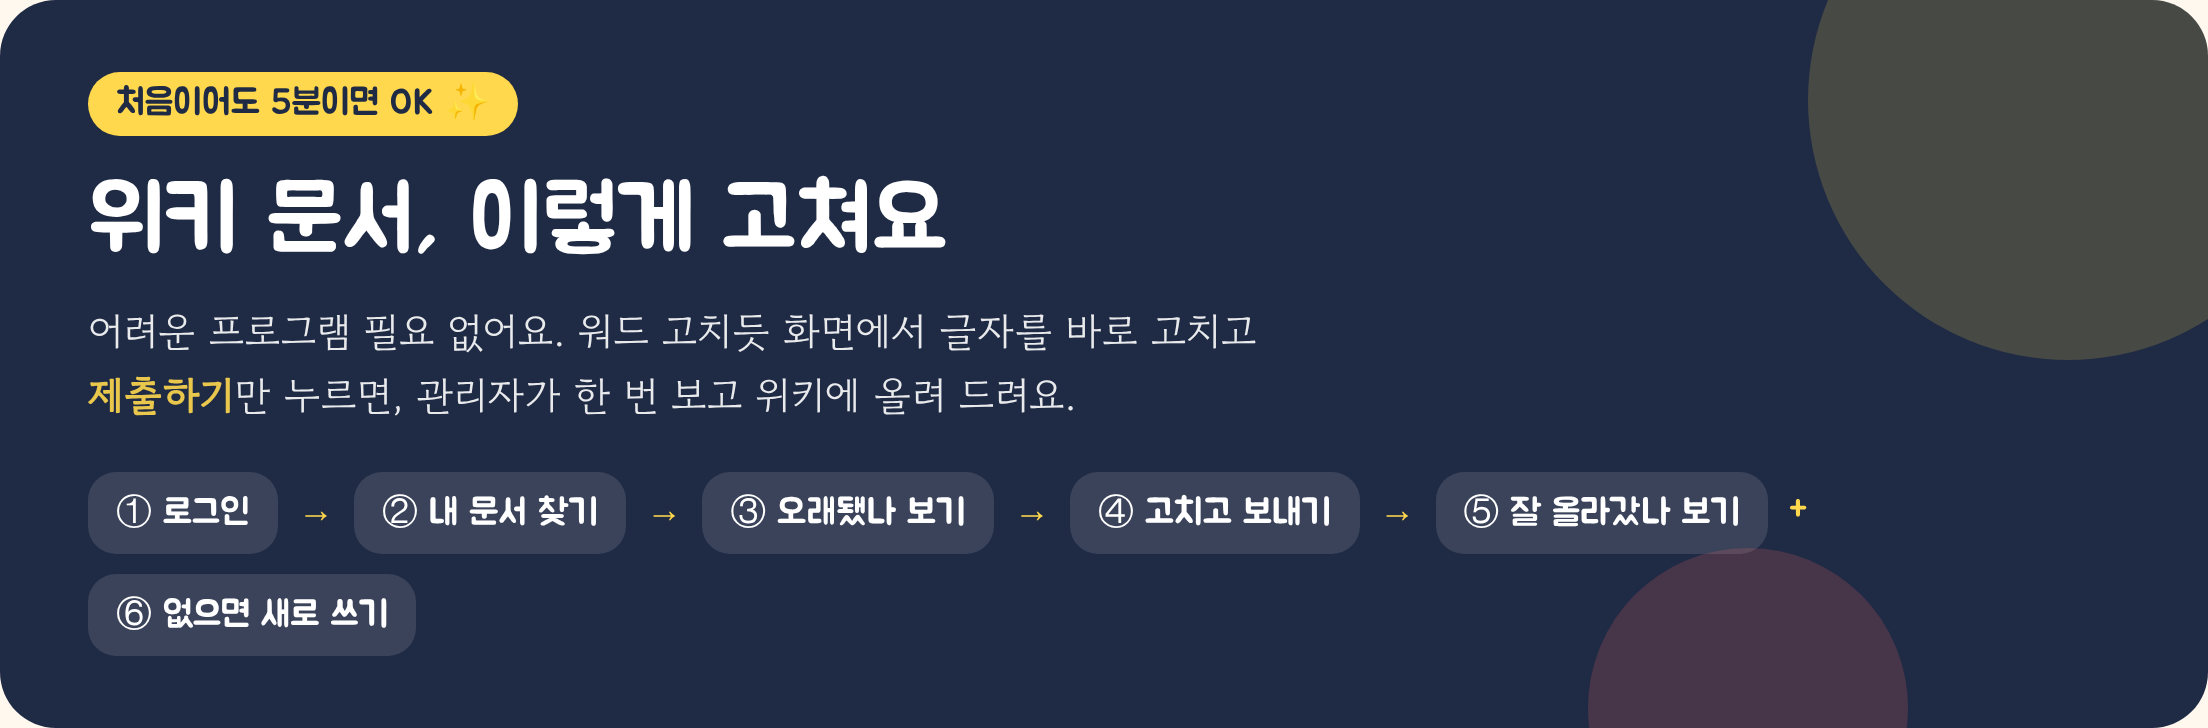
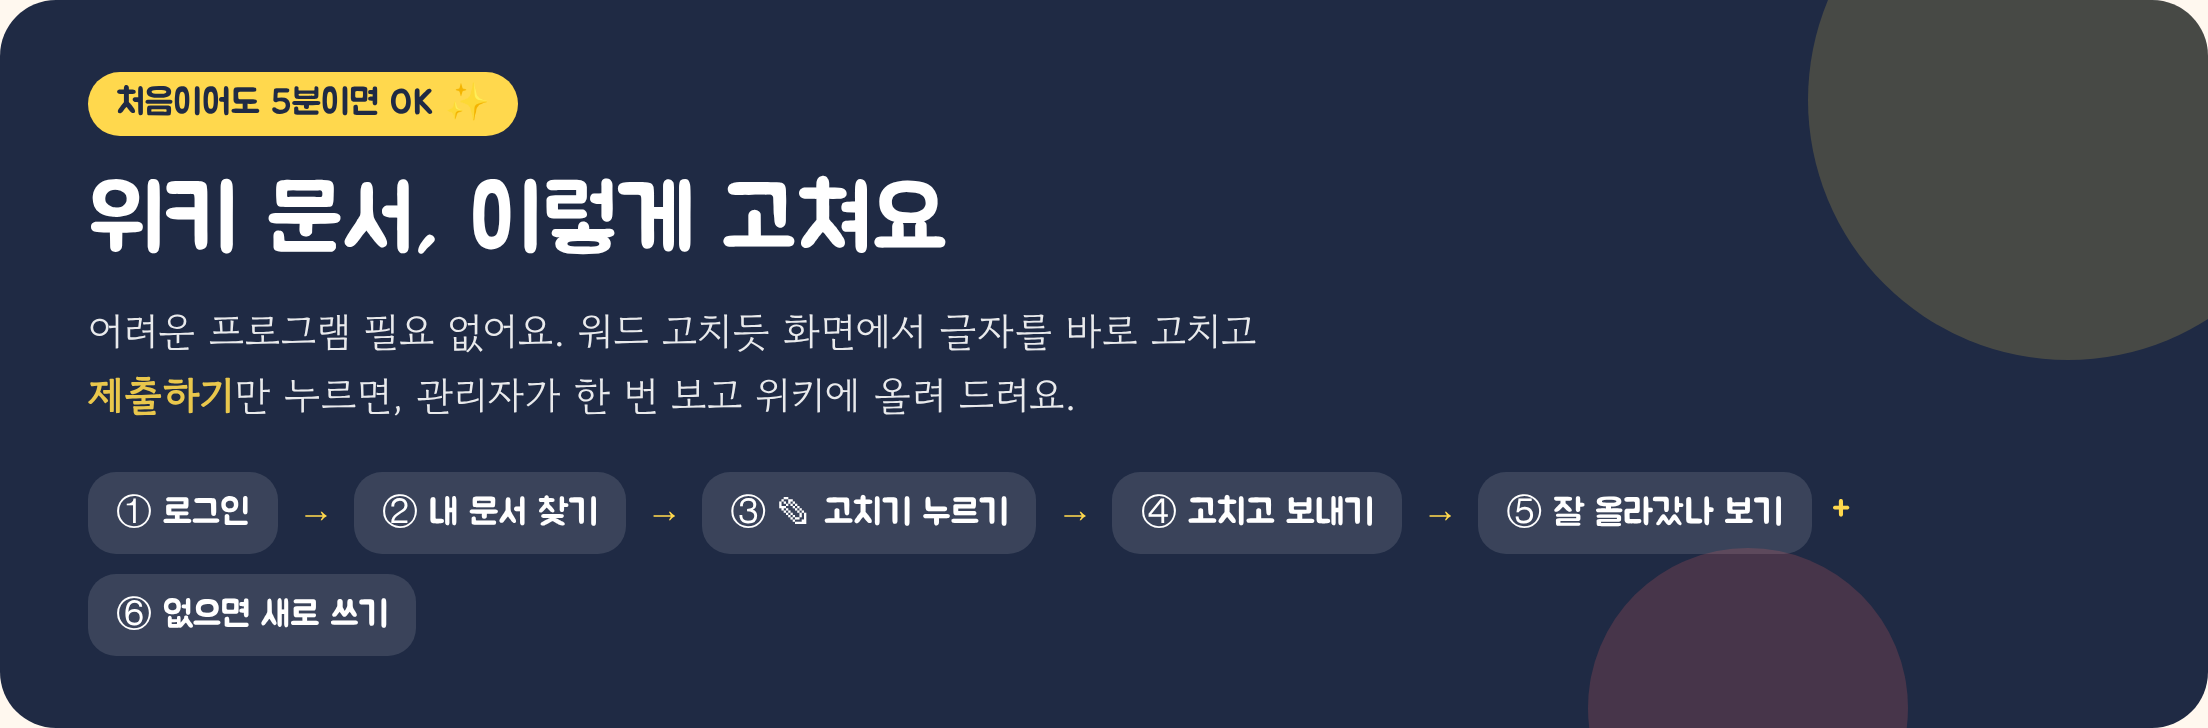
docs(rollout): 설명 이미지를 수정 방법만으로 — 갱신일·확인 권장 안내 제외
Claude-Session: https://claude.ai/code/session_01R5pPVy8BXndHPUZCzwJ5LA

Changed region(s): [[0.3438, 0.6346, 0.8438, 0.7857]]

diff --git a/docs/rollout/guide-images/src/guide.html b/docs/rollout/guide-images/src/guide.html
@@ -56,7 +56,7 @@ svg.ov{position:absolute;inset:0;overflow:visible;pointer-events:none}
   <div class="tag">처음이어도 5분이면 OK ✨</div>
   <h1>위키 문서, 이렇게 고쳐요</h1>
   <p>어려운 프로그램 필요 없어요. 워드 고치듯 화면에서 글자를 바로 고치고<br><b style="color:var(--yellow)">제출하기</b>만 누르면, 관리자가 한 번 보고 위키에 올려 드려요.</p>
-  <div class="flow"><span>① 로그인</span><i>→</i><span>② 내 문서 찾기</span><i>→</i><span>③ 오래됐나 보기</span><i>→</i><span>④ 고치고 보내기</span><i>→</i><span>⑤ 잘 올라갔나 보기</span><i>+</i><span>⑥ 없으면 새로 쓰기</span></div>
+  <div class="flow"><span>① 로그인</span><i>→</i><span>② 내 문서 찾기</span><i>→</i><span>③ ✎ 고치기 누르기</span><i>→</i><span>④ 고치고 보내기</span><i>→</i><span>⑤ 잘 올라갔나 보기</span><i>+</i><span>⑥ 없으면 새로 쓰기</span></div>
 </section>
 
 <section class="card" id="s1">
@@ -75,21 +75,18 @@ svg.ov{position:absolute;inset:0;overflow:visible;pointer-events:none}
 <section class="card" id="s2">
   <div class="head"><div class="num">2</div><h2>내 담당 문서를 찾아요</h2></div>
   <p class="desc">왼쪽 메뉴를 눌러 펼쳐 보거나, 위쪽 검색창에 찾고 싶은 말을 넣어요.</p>
-  <div class="stage" data-img="home.png" data-crop="0,0,1440,540" data-bot="110" data-w="960">
-    <a data-t="8,140,240,256" data-l="210,420" data-c="yellow" data-n="1" data-h="왼쪽 메뉴에서 찾기" data-s="누르면 아래로 문서 목록이 펼쳐져요"></a>
+  <div class="stage" data-img="home.png" data-crop="0,0,1440,400" data-bot="110" data-w="960">
+    <a data-t="8,140,240,256" data-l="330,330" data-c="yellow" data-n="1" data-h="왼쪽 메뉴에서 찾기" data-s="누르면 아래로 문서 목록이 펼쳐져요"></a>
     <a data-t="688,6,1252,42" data-l="720,110" data-c="mint" data-n="2" data-h="찾고 싶은 말 넣기" data-s="예: 띠배너, 월정액"></a>
-    <a data-t="845,412,1133,522" data-l="640,420" data-c="pink" data-n="3" data-h="확인 필요 23" data-s="한 달 넘게 안 고친 문서 수예요"></a>
   </div>
 </section>
 
 <section class="card" id="s3">
-  <div class="head"><div class="num">3</div><h2>문서가 오래됐는지 봐요</h2></div>
-  <p class="desc">문서 제목 아래와 오른쪽 상자에 <b>마지막으로 고친 날</b>이 적혀 있어요. 오래됐다면 지금 내용이 맞는지 봐 주세요.</p>
-  <div class="stage" data-img="promo.png" data-crop="248,48,1440,520" data-top="60" data-bot="10" data-w="960">
-    <a data-t="280,100,552,122" data-l="230,270" data-c="mint" data-n="1" data-h="마지막으로 고친 날" data-s="9월 17일 이후로 그대로예요"></a>
-    <a data-t="632,126,708,148" data-l="530,225" data-c="pink" data-n="2" data-h="🟡 확인 권장" data-s="오래됐으니 한번 봐 달라는 뜻"></a>
-    <a data-t="1110,104,1340,230" data-l="870,360" data-c="yellow" data-n="3" data-h="문서 정보 상자" data-s="고친 날·상태를 한눈에"></a>
-    <a data-t="1014,62,1089,91" data-l="500,28" data-c="yellow" data-n="4" data-h="'✎ 고치기'를 누르면 시작!" data-s=""></a>
+  <div class="head"><div class="num">3</div><h2>문서를 열고 '✎ 고치기'를 눌러요</h2></div>
+  <p class="desc">고칠 문서를 열면 오른쪽 위에 까만 <b>✎ 고치기</b> 버튼이 있어요. 누르면 바로 고칠 수 있는 화면이 돼요.</p>
+  <div class="stage" data-img="promo.png" data-crop="248,48,1440,420" data-w="960" data-bot="10">
+    <a data-t="1014,62,1089,91" data-l="560,190" data-c="yellow" data-n="1" data-h="여기를 눌러요!" data-s="문서 전체를 고칠 수 있어요"></a>
+    <a data-t="260,195,640,232" data-l="300,250" data-c="mint" data-n="2" data-h="어느 내용을 고칠지 먼저 읽어 봐요" data-s="틀린 것 · 바뀐 것 · 빠진 것"></a>
   </div>
 </section>
 
@@ -120,7 +117,7 @@ svg.ov{position:absolute;inset:0;overflow:visible;pointer-events:none}
     <div class="chip no">닫힘<small>= 돌려받았어요 · 이유 보고 다시 보내기</small></div>
   </div>
   <div class="tip"><span class="ic">🗂</span><div><strong>화면에 나오는 낯선 말, 이 뜻이에요</strong><br>
-  <b>머지됨</b> = 승인됨 · <b>대기 중</b> = 관리자 확인 기다리는 중 · <b>닫힘</b> = 돌려받음 · <b>확인 권장</b> = 오래된 문서 · <b>v2</b> = 두 번째로 고친 판</div></div>
+  <b>대기 중</b> = 관리자 확인 기다리는 중 · <b>머지됨</b> = 승인됨 · <b>닫힘</b> = 돌려받음</div></div>
 </section>
 
 <section class="card" id="s6">

diff --git a/docs/rollout/안내메일.md b/docs/rollout/안내메일.md
@@ -1,7 +1,7 @@
 # 위키 허브 안내 메일 초안
 
 > 붙여 쓰는 곳: 사내 메일 본문. `[대괄호]` 칸은 보내기 전에 채운다.
-> 첨부: `허브_계정_요청서.xlsx`, 설명 이미지 `guide-images/full.png` (또는 단계별 `s0~s6.png`를 본문 사이에 넣기)
+> 첨부: `허브_계정_요청서.xlsx`, 설명 이미지 `guide-images/full.png` (또는 단계별 `s0~s6.png`를 본문 사이에 넣기 — 수정 방법만 다룸)
 
 ---
 
@@ -26,7 +26,6 @@
   - **틀린 내용**이 있다 → 고치기
   - **바뀐 기준**이 반영되지 않았다 → 현행화
   - **있어야 할 내용이 없다** → 새 문서 또는 내용 추가
-- 문서마다 마지막 갱신일과 상태가 보입니다. **'확인 권장'(🟡) 표시가 붙은 문서부터** 보시면 빠릅니다.
 - 특히 **편성 메뉴는 아직 문서가 비어 있습니다.** 영화/시리즈·TV 방송 등 편성 기준과 사례를 가장 잘 아는 분들의 첫 문서를 기다리고 있습니다.
 - 사용법은 첨부 이미지 한 장에 정리했습니다. 어려운 프로그램 없이 워드 고치듯 화면에서 바로 고치고 **제출하기**만 누르면, 관리자가 한 번 보고 위키에 올립니다.
 
@@ -48,7 +47,7 @@
 앞으로 플랫폼 담당 실적 대시보드와 연계하면, "어떤 편성 의도로, 어떤 프로모션을 했고, 결과가 어땠는지"를 함께 볼 수 있게 됩니다. 편성과 마케팅의 기준이 문서로 남아 있어야 실적 숫자에 **맥락**이 붙고, 보고와 인사이트가 풍부해집니다.
 
 **4. 문서를 쓴 기록이 곧 업무 기록입니다.**
-고친 내용은 버전과 작성자로 남습니다. 우리 팀이 어떤 기준을 세우고 어떻게 바꿔 왔는지가 그대로 쌓이니, 팀의 노하우가 개인 PC가 아니라 **담당의 자산**이 됩니다.
+앞으로 고치는 내용은 누가 언제 고쳤는지 함께 남습니다. 우리 팀이 어떤 기준을 세우고 어떻게 바꿔 왔는지가 그대로 쌓이니, 팀의 노하우가 개인 PC가 아니라 **담당의 자산**이 됩니다.
 
 **부담은 작게 만들어 두었습니다.**
 - 한 번에 완벽할 필요 없습니다. 틀린 한 줄, 빠진 한 줄부터면 충분합니다.
